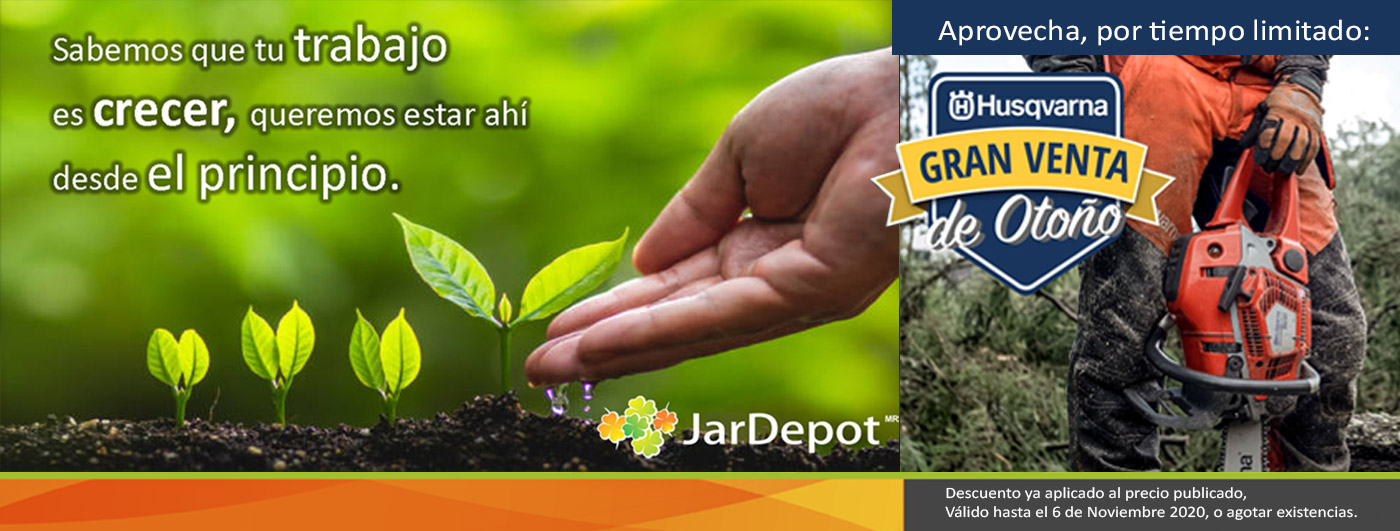
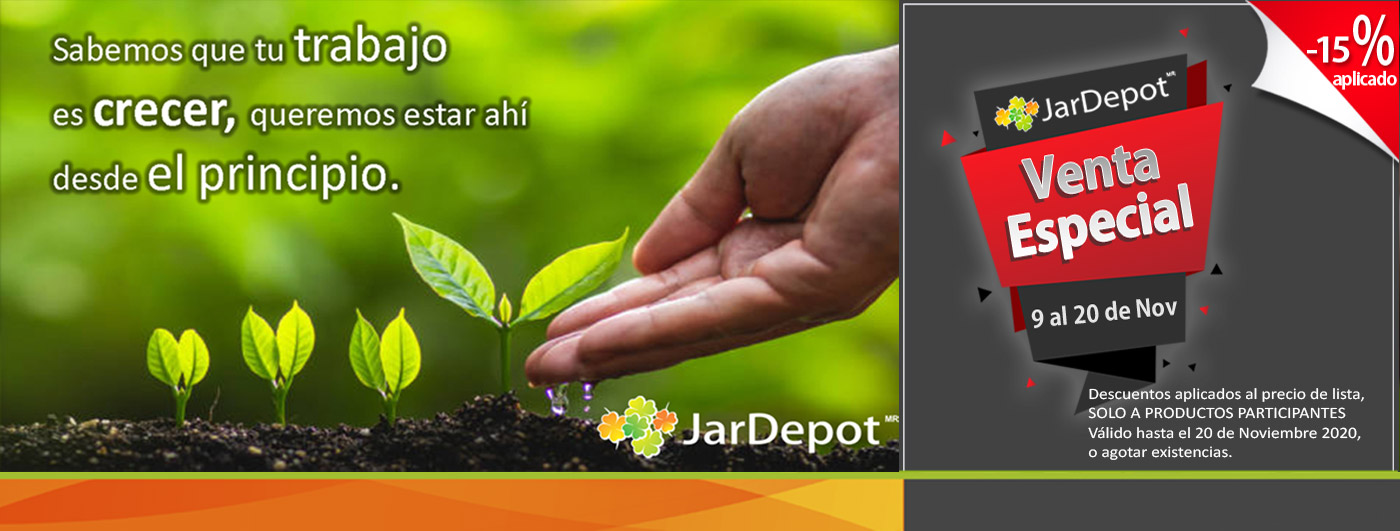
se hacen cambios imagen y pestaña de descuento 15

Changed region(s): [[0.6143, 0.0, 1.0, 0.9944]]

diff --git a/public/assets/js/pages/products.min.js b/public/assets/js/pages/products.min.js
@@ -1,1 +1,1 @@
-var show=16,order="default";function reloadProducts(){var e=window.location.href.split("/"),t=[];(e="busqueda"===e[e.length-2]||"ofertas"===e[e.length-1])?(t.url=ruta+"products/getProductsOrdered",t.data={order:order,word:$("#word-search").val()}):(t.url=ruta+"products/getProductsFiltered",t.data={order:order,filters:filters,level1:$("#level1").val(),level2:$("#level2").val()}),t.dataType="json",t.type="get",t.success=function(t){e?$("#cards-sections-search").html(""):$("#cards-sections").html(""),$.each(t,function(t,a){var s="";a.hasOwnProperty("discount")&&(s='<div class="ribbon ribbon-top-right" style="display: block"><span>Oferta</span></div>');var i="";t>7&&(i="d-none");var n='<div class="card shadow-sm product-item col-sm-6 col-md-4 col-lg-3 p-0 mt-2 '+i+'" style="border-radius: 5px;overflow: hidden;">                                <a href="'+ruta+"catalogo/"+a.brand.toLowerCase().replace(" ","-")+"/"+a.productType.toLowerCase()+"-"+a.brand.toLowerCase().replace(" ","-")+"-"+a.mpn.toLowerCase()+'">                                    '+s+'                                    <div class="product-image" style="height: 205px">                                        <img style="max-width: 80%; max-height: 100%;"                                             src="'+ruta+a.images[0].medium+'"                                             title="'+a.name+'" alt="'+a.name+'">                                    </div>';a.newPriceFloat>3e3&&(n+='                                    <img class="free-delivery-prods" src="'+ruta+'assets/images/otros/gratis.png"                                         title="Envío gratis Jardepot" alt="Envío gratis Jardepot">'),n+='                                </a>                                <div class="d-flex align-items-center flex-column" style="height: 277px;">                                    <p class="text-muted text-center"                                       style="font-weight: 500; font-size: 18px;">'+a.name+"</p>",a.stock?n+='                                    <p class="old-price" style="height: 21px;">                                        '+(a.hasOwnProperty("oldPrice")?a.oldPrice:"")+'                                    </p>                                    <p class="new-price">'+a.newPrice+'</p>                                    <p class="little-letters">Precio aplica en pagos mediante depósito o transferencia bancaria.</p>                                    <button class="btn btn-buy d-flex justify-content-center align-items-center"                                       onclick="buyProduct(\''+a.productType+"','"+a.brand+"','"+a.mpn+'\')">                                        <i class="material-icons" style="font-size: 16px;">shopping_cart</i> Comprar                                    </button>                                    <p class="envio-volada d-flex justify-content-center align-items-center my-2"                                       style="height: 24px; max-height: 24px;">                                        '+(a.inventory>0?'<i class="material-icons" style="font-size: 16px;">flash_on</i>Envio de volada':"")+'                                    </p>                                    <p class="little-letters">*Envio gratis a partir de $3,000 de compra</p>                                    <p class="little-letters">*Consulte condiciones.</p>                                    <p class="product-description p-2 text-center text-truncate" data-toggle="tooltip"                                       data-placement="bottom"                                       style="min-height: 74px; max-height: 74px; white-space: normal;"                                       title="'+a.description+'">                                        '+a.description+"                                    </p>":n+='<p class="little-letters">*Envio gratis a partir de $3,000 de compra</p>       <p class="little-letters">*Consulte condiciones.</p>       <p class="product-description p-2 text-center text-truncate" data-toggle="tooltip"           data-placement="bottom"           style="min-height: 74px; max-height: 74px; white-space: normal;"           title="'+a.description+'">               '+a.description.substring(0,70)+'       </p>       <p class="text-center mt-3" style="color: rgba(0,0,0,.54)!important; font-weight: 900; font-size: 15px; ">Consulta precio y existencia Llámanos al teléfono</p>       <p style="font-weight: 900; font-size: 18px; color: #de1f21;">800 212 9225</p>',n+='                            </div>                                <hr>                                <div class="d-flex align-items-center flex-column">                                   <div style="height: 36px">',a.stock&&(n+='                                <button type="button" onclick="verifyAddCartProduct(\''+a.productType+"','"+a.brand+"','"+a.mpn+'\',1)"                                            class="btn-add-cart d-flex justify-content-center align-items-center"                                            style="font-size: 14px;">                                        <i class="material-icons fn-color-jd">shopping_cart</i>                                        <span class="text-muted" style="font-size: 14px; font-weight: 500;">Agregar al carrito</span>                                    </button>'),n+='                               </div>                                    <p class="little-letters text-center">*Sujeto a existencias.</p>                                    <p class="little-letters text-center">*Precios sujetos a cambio sin previo                                        aviso.</p>                                </div>                            </div>',e?$("#cards-sections-search").append(n):$("#cards-sections").append(n)}),$(".page-item").removeClass("active"),$('.page-link[data-val="1"]').parent(".page-item").addClass("active"),$("#eight-products").click()},ajaxCall(t)}$(document).ready(function(){$(".number-items").click(function(){show=$(this).data("val");var e=$(".product-item").length/show;$(".number-page").addClass("d-none"),$(".pagination-container").each(function(t,a){$(a).find(".number-page").each(function(t,a){t<e&&$(a).removeClass("d-none")})}),$(".current-number-items").text(show),$(".page-item").removeClass("active"),$('.page-link[data-val="1"]').parent(".page-item").addClass("active"),$(".pagination .active").click()}),$(".page-item").click(function(){if(!$(this).hasClass("disabled")){switch($(".product-item").removeClass("d-none").addClass("d-none"),$(this).find("a").data("val")){case"--":var e=$(".pagination .active").find("a").data("val"),t=(a=(e-=1)*show)-show;$(".page-item").removeClass("active"),$('.page-link[data-val="'+e+'"]').parent(".page-item").addClass("active"),$(".product-item").each(function(e,s){e>=t&&e<a&&$(s).removeClass("d-none")});break;case"++":e=$(".pagination .active").find("a").data("val"),t=(a=(e+=1)*show)-show;$(".page-item").removeClass("active"),$('.page-link[data-val="'+e+'"]').parent(".page-item").addClass("active"),$(".product-item").each(function(e,s){e>=t&&e<a&&$(s).removeClass("d-none")});break;default:var a;e=$(this).find("a").data("val"),t=(a=e*show)-show;$(".page-item").removeClass("active"),$('.page-link[data-val="'+e+'"]').parent(".page-item").addClass("active"),$(".product-item").each(function(e,s){e>=t&&e<a&&$(s).removeClass("d-none")})}0===$('.page-link[data-val="'+(e+1)+'"]').length?$(".next-page").addClass("disabled"):$('.page-link[data-val="'+(e+1)+'"]').parent(".page-item").hasClass("d-none")?$(".next-page").addClass("disabled"):$(".next-page").removeClass("disabled"),0===$('.page-link[data-val="'+(e-1)+'"]').length?$(".previous-page").addClass("disabled"):$(".previous-page").removeClass("disabled")}}),$("#orderBy").change(function(){order=$(this).val(),reloadProducts()}),$("#form-failed").on("keypress",function(e){13==e.which&&$("#search-form").submit()}),$("#btn-form").click(function(){$("#form-failed").submit()}),$("#form-failed").submit(function(e){e.preventDefault()}).validate({rules:{nombre:{required:!0,minlength:3,maxlength:60},telefono:{required:!0,digits:!0,minlength:10,maxlength:10},comentario:{maxlength:100}},messages:{nombre:{required:"Introduce tu nombre.",maxlength:"Debe contener máximo 60.",minlength:"Debe contener mínimo 3 letras."},telefono:{required:"Introduce tu teléfono.",digits:"Introduce un número válido.",maxlength:"Debe contener 10 dígitos.",minlength:"Debe contener 10 dígitos."},comentario:{maxlength:"Debe contener máximo de 100."}},submitHandler:function(){var e=$("#name").val(),t=$("#phone").val(),a=$("#coments").val(),s=$("#word-search").val(),i=[];i.url=ruta+"products/searchFailed",i.type="POST",i.dataType="json",i.data={name:e,phone:t,search:s,coments:a},i.success=function(e){!0===e.resultado&&($("#container-form").removeClass("d-flex").addClass("d-none"),$("#container-form-sent").removeClass("d-none").addClass("d-flex"))},ajaxCall(i)}})});
+var show=16,order="default";function reloadProducts(){var e=window.location.href.split("/"),t=[];(e="busqueda"===e[e.length-2]||"ofertas"===e[e.length-1])?(t.url=ruta+"products/getProductsOrdered",t.data={order:order,word:$("#word-search").val()}):(t.url=ruta+"products/getProductsFiltered",t.data={order:order,filters:filters,level1:$("#level1").val(),level2:$("#level2").val()}),t.dataType="json",t.type="get",t.success=function(t){e?$("#cards-sections-search").html(""):$("#cards-sections").html(""),$.each(t,function(t,a){var s="";a.hasOwnProperty("discount")&&(s='<img src="'+ruta+'assets/images/otros/15pestania.png" style="width: 80px;position: absolute;top: 0;left: 0;">');var i="";t>7&&(i="d-none");var n='<div class="card shadow-sm product-item col-sm-6 col-md-4 col-lg-3 p-0 mt-2 '+i+'" style="border-radius: 5px;overflow: hidden;">                                <a href="'+ruta+"catalogo/"+a.brand.toLowerCase().replace(" ","-")+"/"+a.productType.toLowerCase()+"-"+a.brand.toLowerCase().replace(" ","-")+"-"+a.mpn.toLowerCase()+'">                                    '+s+'                                    <div class="product-image" style="height: 205px">                                        <img style="max-width: 80%; max-height: 100%;"                                             src="'+ruta+a.images[0].medium+'"                                             title="'+a.name+'" alt="'+a.name+'">                                    </div>';a.newPriceFloat>3e3&&(n+='                                    <img class="free-delivery-prods" src="'+ruta+'assets/images/otros/gratis.png"                                         title="Envío gratis Jardepot" alt="Envío gratis Jardepot">'),n+='                                </a>                                <div class="d-flex align-items-center flex-column" style="height: 277px;">                                    <p class="text-muted text-center"                                       style="font-weight: 500; font-size: 18px;">'+a.name+"</p>",a.stock?n+='                                    <p class="old-price" style="height: 21px;">                                        '+(a.hasOwnProperty("oldPrice")?a.oldPrice:"")+'                                    </p>                                    <p class="new-price">'+a.newPrice+'</p>                                    <p class="little-letters">Precio aplica en pagos mediante depósito o transferencia bancaria.</p>                                    <button class="btn btn-buy d-flex justify-content-center align-items-center"                                       onclick="buyProduct(\''+a.productType+"','"+a.brand+"','"+a.mpn+'\')">                                        <i class="material-icons" style="font-size: 16px;">shopping_cart</i> Comprar                                    </button>                                    <p class="envio-volada d-flex justify-content-center align-items-center my-2"                                       style="height: 24px; max-height: 24px;">                                        '+(a.inventory>0?'<i class="material-icons" style="font-size: 16px;">flash_on</i>Envio de volada':"")+'                                    </p>                                    <p class="little-letters">*Envio gratis a partir de $3,000 de compra</p>                                    <p class="little-letters">*Consulte condiciones.</p>                                    <p class="product-description p-2 text-center text-truncate" data-toggle="tooltip"                                       data-placement="bottom"                                       style="min-height: 74px; max-height: 74px; white-space: normal;"                                       title="'+a.description+'">                                        '+a.description+"                                    </p>":n+='<p class="little-letters">*Envio gratis a partir de $3,000 de compra</p>       <p class="little-letters">*Consulte condiciones.</p>       <p class="product-description p-2 text-center text-truncate" data-toggle="tooltip"           data-placement="bottom"           style="min-height: 74px; max-height: 74px; white-space: normal;"           title="'+a.description+'">               '+a.description.substring(0,70)+'       </p>       <p class="text-center mt-3" style="color: rgba(0,0,0,.54)!important; font-weight: 900; font-size: 15px; ">Consulta precio y existencia Llámanos al teléfono</p>       <p style="font-weight: 900; font-size: 18px; color: #de1f21;">800 212 9225</p>',n+='                            </div>                                <hr>                                <div class="d-flex align-items-center flex-column">                                   <div style="height: 36px">',a.stock&&(n+='                                <button type="button" onclick="verifyAddCartProduct(\''+a.productType+"','"+a.brand+"','"+a.mpn+'\',1)"                                            class="btn-add-cart d-flex justify-content-center align-items-center"                                            style="font-size: 14px;">                                        <i class="material-icons fn-color-jd">shopping_cart</i>                                        <span class="text-muted" style="font-size: 14px; font-weight: 500;">Agregar al carrito</span>                                    </button>'),n+='                               </div>                                    <p class="little-letters text-center">*Sujeto a existencias.</p>                                    <p class="little-letters text-center">*Precios sujetos a cambio sin previo                                        aviso.</p>                                </div>                            </div>',e?$("#cards-sections-search").append(n):$("#cards-sections").append(n)}),$(".page-item").removeClass("active"),$('.page-link[data-val="1"]').parent(".page-item").addClass("active"),$("#eight-products").click()},ajaxCall(t)}$(document).ready(function(){$(".number-items").click(function(){show=$(this).data("val");var e=$(".product-item").length/show;$(".number-page").addClass("d-none"),$(".pagination-container").each(function(t,a){$(a).find(".number-page").each(function(t,a){t<e&&$(a).removeClass("d-none")})}),$(".current-number-items").text(show),$(".page-item").removeClass("active"),$('.page-link[data-val="1"]').parent(".page-item").addClass("active"),$(".pagination .active").click()}),$(".page-item").click(function(){if(!$(this).hasClass("disabled")){switch($(".product-item").removeClass("d-none").addClass("d-none"),$(this).find("a").data("val")){case"--":var e=$(".pagination .active").find("a").data("val"),t=(a=(e-=1)*show)-show;$(".page-item").removeClass("active"),$('.page-link[data-val="'+e+'"]').parent(".page-item").addClass("active"),$(".product-item").each(function(e,s){e>=t&&e<a&&$(s).removeClass("d-none")});break;case"++":e=$(".pagination .active").find("a").data("val"),t=(a=(e+=1)*show)-show;$(".page-item").removeClass("active"),$('.page-link[data-val="'+e+'"]').parent(".page-item").addClass("active"),$(".product-item").each(function(e,s){e>=t&&e<a&&$(s).removeClass("d-none")});break;default:var a;e=$(this).find("a").data("val"),t=(a=e*show)-show;$(".page-item").removeClass("active"),$('.page-link[data-val="'+e+'"]').parent(".page-item").addClass("active"),$(".product-item").each(function(e,s){e>=t&&e<a&&$(s).removeClass("d-none")})}0===$('.page-link[data-val="'+(e+1)+'"]').length?$(".next-page").addClass("disabled"):$('.page-link[data-val="'+(e+1)+'"]').parent(".page-item").hasClass("d-none")?$(".next-page").addClass("disabled"):$(".next-page").removeClass("disabled"),0===$('.page-link[data-val="'+(e-1)+'"]').length?$(".previous-page").addClass("disabled"):$(".previous-page").removeClass("disabled")}}),$("#orderBy").change(function(){order=$(this).val(),reloadProducts()}),$("#form-failed").on("keypress",function(e){13==e.which&&$("#search-form").submit()}),$("#btn-form").click(function(){$("#form-failed").submit()}),$("#form-failed").submit(function(e){e.preventDefault()}).validate({rules:{nombre:{required:!0,minlength:3,maxlength:60},telefono:{required:!0,digits:!0,minlength:10,maxlength:10},comentario:{maxlength:100}},messages:{nombre:{required:"Introduce tu nombre.",maxlength:"Debe contener máximo 60.",minlength:"Debe contener mínimo 3 letras."},telefono:{required:"Introduce tu teléfono.",digits:"Introduce un número válido.",maxlength:"Debe contener 10 dígitos.",minlength:"Debe contener 10 dígitos."},comentario:{maxlength:"Debe contener máximo de 100."}},submitHandler:function(){var e=$("#name").val(),t=$("#phone").val(),a=$("#coments").val(),s=$("#word-search").val(),i=[];i.url=ruta+"products/searchFailed",i.type="POST",i.dataType="json",i.data={name:e,phone:t,search:s,coments:a},i.success=function(e){!0===e.resultado&&($("#container-form").removeClass("d-flex").addClass("d-none"),$("#container-form-sent").removeClass("d-none").addClass("d-flex"))},ajaxCall(i)}})});

diff --git a/public/assets/js/pages/products.js b/public/assets/js/pages/products.js
@@ -182,8 +182,8 @@ function reloadProducts() {
         $.each(response, function (i,e) {
             var discount = "";
             if(e.hasOwnProperty('discount')){
-                 discount = '<div class="ribbon ribbon-top-right" style="display: block"><span>Oferta</span></div>';
-                // discount=  '<img src="'+ruta+'assets/images/otros/9aniospestania.png" style="width: 80px;position: absolute;top: 0;left: 0;">';
+                 // discount = '<div class="ribbon ribbon-top-right" style="display: block"><span>Oferta</span></div>';
+                discount=  '<img src="'+ruta+'assets/images/otros/15pestania.png" style="width: 80px;position: absolute;top: 0;left: 0;">';
             }
             var dNone = "";
             if(i>7){

diff --git a/resources/views/pages/product.blade.php b/resources/views/pages/product.blade.php
@@ -10,7 +10,7 @@
     <meta property="og:title" content="{{ $product['metaTitle'] }}" />
     <meta property="og:description" content="{{ $product['metaDescription'] }}" />
     <meta property="og:type" content="website" />
-    <meta property="og:url" content="https://www.jardepot.com/" />
+    <meta property="og:url" content="{{$canonical}}" />
     <meta property="og:image" content="{{asset('img/logos/logoOG.jpg')}}" />
     <meta property="og:image:url" content="{{asset('img/logos/logoOG.jpg')}}" />
     <meta property="og:image:secure_url" content="{{asset('img/logos/logoOG.jpg')}}" />
@@ -60,12 +60,15 @@
                 <div class="row">
                     <div class="col-md-10 mt-2" style="padding-right: 0">
                         <div class="card shadow-sm" style="overflow: hidden;">
+{{--                            @if($product['discount'] == 'Oferta')--}}
+{{--                                <div class="ribbon ribbon-top-right" style="display: block;z-index: 6"><span>Oferta</span></div>--}}
+{{--                            @endif--}}
                             @if($product['discount'] == 'Oferta')
-                                <div class="ribbon ribbon-top-right" style="display: block;z-index: 6"><span>Oferta</span></div>
+                                <img src="{{ asset('assets/images/otros/15pestania.png') }}" style="width: 100px;position: absolute;top: 0;left: 0;z-index: 3" title="Pestaña Izquierda" alt="Pestaña Izquierda">
                             @endif
 
-                            <div class="product-image" id="div-img-product" style="width: 500px;height: 500px">
-                                <img style="max-width: 100%" id="drift-trigger"
+                            <div class="product-image" id="div-img-product" style="width: 100%;height: 500px">
+                                <img style="width: 85%" id="drift-trigger"
                                      src="{{asset($product['images'][0]['medium'])}}" data-zoom="{{asset($product['images'][0]['big'])}}"
                                      title="{{$product['name']}}" alt="{{$product['name']}}">
                             </div>
@@ -334,8 +337,11 @@
                                 <div class="swiper-slide">
                                     <div class="card shadow-sm product-item" style="border-radius: 5px;overflow: hidden;">
                                         <a href="{{url($related['href'])}}">
-                                            @if($related['discount'] == 'Oferta')
+                                       {{--     @if($related['discount'] == 'Oferta')
                                                 <div class="ribbon ribbon-top-right" style="display: block;position: relative;z-index: 6"><span>Oferta</span></div>
+                                            @endif--}}
+                                            @if($related['discount'] == 'Oferta')
+                                                <img src="{{ asset('assets/images/otros/15pestania.png') }}" style="width: 75px;position: absolute;top: 0;left: 0;z-index: 3" title="Pestaña Izquierda" alt="Pestaña Izquierda">
                                             @endif
                                             <div class="product-image img-container" style="height: 145px;">
                                                 <img style="max-width: 80%;max-height: 80%"
@@ -385,10 +391,10 @@
             </div>
             <div class="col-lg-3 col-md-12" style="height: 500px;">
                 <div class="d-none d-md-none d-lg-block">
-                    @if($product['imgBrand'])
-                    <div class="text-center">
-                        <img src="{{asset($product['imgBrand'])}}" style="width: 160px" alt="{{'Logo '.$product['brand']}}" >
-                    </div>
+                    @if(isset($product['imgBrand']))
+                        <div class="text-center">
+                            <img src="{{asset($product['imgBrand'])}}" style="width: 160px" alt="{{'Logo '.$product['brand']}}" >
+                        </div>
                     @endif
                     <h2 class="py-1 description-product">{{$product['description']}}</h2>
                     <br>

diff --git a/resources/views/pages/products.blade.php b/resources/views/pages/products.blade.php
@@ -134,14 +134,14 @@
                                 style="border-radius: 5px;overflow: hidden;">
                                 <a href="{{route('product',
                                 ['marca'=> str_replace(" ", "-",strtolower($item['brand'])), 'productType'=> strtolower($item['productType']), 'brand'=> str_replace(" ", "-",strtolower($item['brand'])), 'mpn'=> strtolower($item['mpn'])])}}">
+{{--                                    @if(isset($item['discount']))--}}
+{{--                                        <div class="ribbon ribbon-top-right" style="display: block">--}}
+{{--                                            <span>Oferta</span>--}}
+{{--                                        </div>--}}
+{{--                                    @endif--}}
                                     @if(isset($item['discount']))
-                                        <div class="ribbon ribbon-top-right" style="display: block">
-                                            <span>Oferta</span>
-                                        </div>
+                                        <img src="{{ asset('assets/images/otros/15pestania.png') }}" style="width: 85px;position: absolute;top: 0;left: 0;" title="Pestaña Izquierda" alt="Pestaña Izquierda">
                                     @endif
-                                  {{--  @if(isset($item['discount']))
-                                        <img src="{{ asset('assets/images/otros/9aniospestania.png') }}" style="width: 85px;position: absolute;top: 0;left: 0;" title="9 aniversario" alt="9 aniversario">
-                                    @endif--}}
                                     <div class="product-image" style="height: 205px">
                                         <img style="max-width: 80%; max-height: 100%"
                                              src="{{asset($item['images'][0]['medium'])}}"
@@ -310,9 +310,11 @@
                                  style="border-radius: 5px;overflow: hidden;">
                                 <a href="{{route('product',
                                 ['marca'=> str_replace(" ", "-",strtolower($item['brand'])), 'productType'=> strtolower($item['productType']), 'brand'=> str_replace(" ", "-",strtolower($item['brand'])), 'mpn'=> strtolower($item['mpn'])])}}">
+{{--                                    @if(isset($item['discount']))--}}
+{{--                                        <div class="ribbon ribbon-top-right" style="display: block"><span>Oferta</span></div>--}}
+{{--                                    @endif--}}
                                     @if(isset($item['discount']))
-                                        <div class="ribbon ribbon-top-right" style="display: block"><span>Oferta</span>
-                                        </div>
+                                        <img src="{{ asset('assets/images/otros/15pestania.png') }}" style="width: 85px;position: absolute;top: 0;left: 0;" title="Pestaña Izquierda" alt="Pestaña Izquierda">
                                     @endif
                                {{--     @if(isset($item['discount']))
                                         <img src="{{ asset('assets/images/otros/9aniospestania.png') }}" style="width: 85px;position: absolute;top: 0;left: 0;" title="9 aniversario" alt="9 aniversario">

diff --git a/app/Http/Controllers/views/ProductController.php b/app/Http/Controllers/views/ProductController.php
@@ -181,11 +181,12 @@ class ProductController extends Controller {
             $response[$iterator]['inventory'] = $item->cantidadInventario;
 
             $response[$iterator]['video'] = isset($item->video)?$item->video:"";
-            if(file_exists(strtr(base_path().'/public/assets/images/brands/'.strtolower($brand).'.jpg', $this-> unwanted_array))){
-                $response[$iterator]['imgBrand']= 'assets/images/brands' . $img . '.jpg';
-            }else{
-                $response[$iterator]['imgBrand'] = 'assets/images/brands/nobrand.png';
+            if(file_exists(strtr(base_path().'/public/assets/images/brands/'.strtolower($brand).'.png', $this-> unwanted_array))){
+                $response[$iterator]['imgBrand']= 'assets/images/brands/' . $brand . '.png';
             }
+      /*      else{
+                $response[$iterator]['imgBrand'] = 'assets/images/brands/nobrand.png';
+            }*/
 
             $iterator++;
         }
